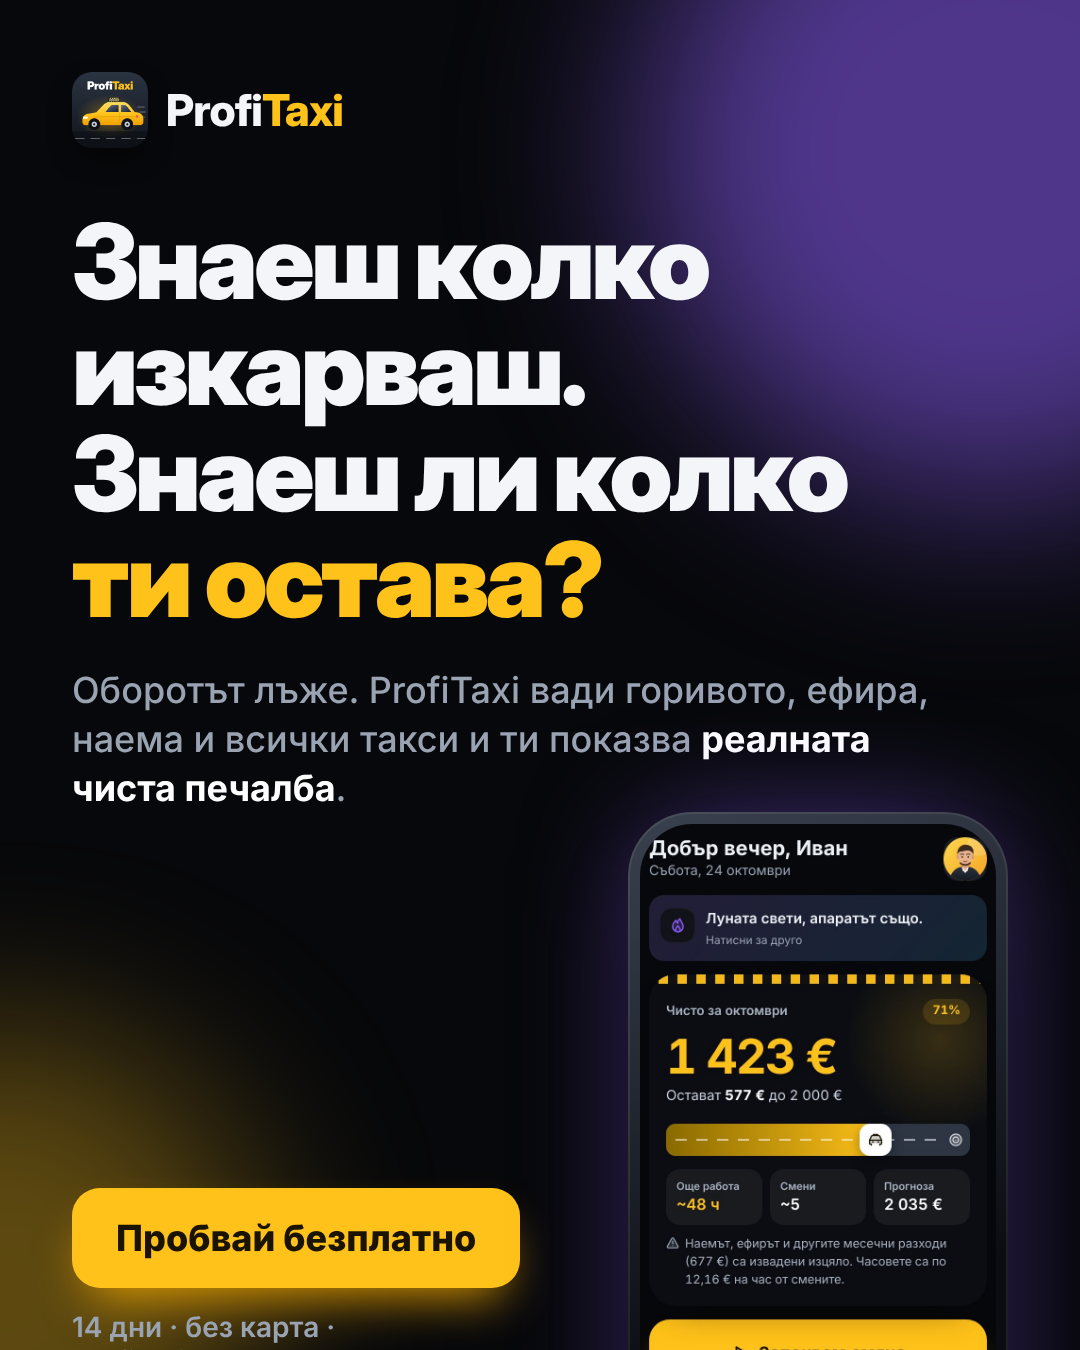
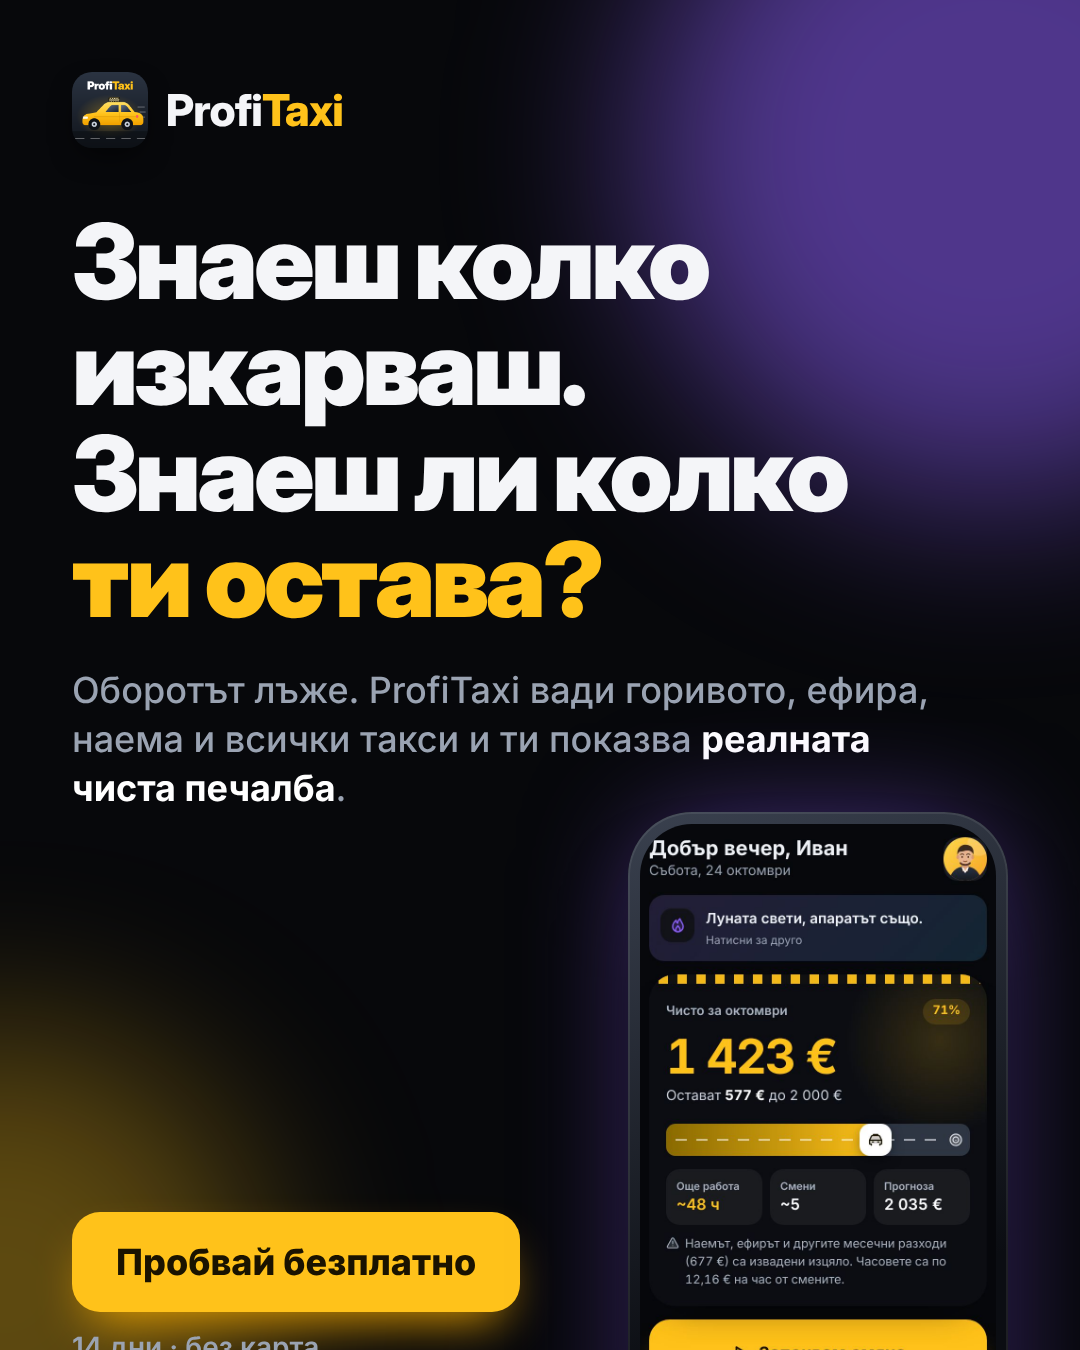
Реклама 1: по-чист долен ред
Claude-Session: https://claude.ai/code/session_014HWntc6b96vsoychA5RByP

Changed region(s): [[0.0611, 0.8711, 0.4889, 1.0]]

diff --git a/marketing/ads.html b/marketing/ads.html
@@ -49,9 +49,9 @@
   <h1 style="font-size:104px;margin-top:60px">Знаеш колко изкарваш.<br>Знаеш ли колко <span class="y">ти&nbsp;остава?</span></h1>
   <p class="sub" style="margin-top:34px;max-width:900px">Оборотът лъже. ProfiTaxi вади горивото, ефира, наема и всички такси и ти показва <b style="color:#fff">реалната чиста печалба</b>.</p>
   <div style="display:flex;gap:40px;align-items:flex-end;margin-top:auto">
-    <div style="flex:1;display:flex;flex-direction:column;gap:22px;padding-bottom:6px">
+    <div style="flex:1;display:flex;flex-direction:column;gap:18px;padding-bottom:20px">
       <span class="cta" style="align-self:flex-start;font-size:36px">Пробвай безплатно</span>
-      <p class="url">14 дни · без карта · profitaxi.vercel.app</p>
+      <p class="url">14 дни · без карта</p>
     </div>
     <div class="phone" style="width:380px;margin-bottom:-250px"><img src="../img/screen-home-dark.jpg" alt=""></div>
   </div>
